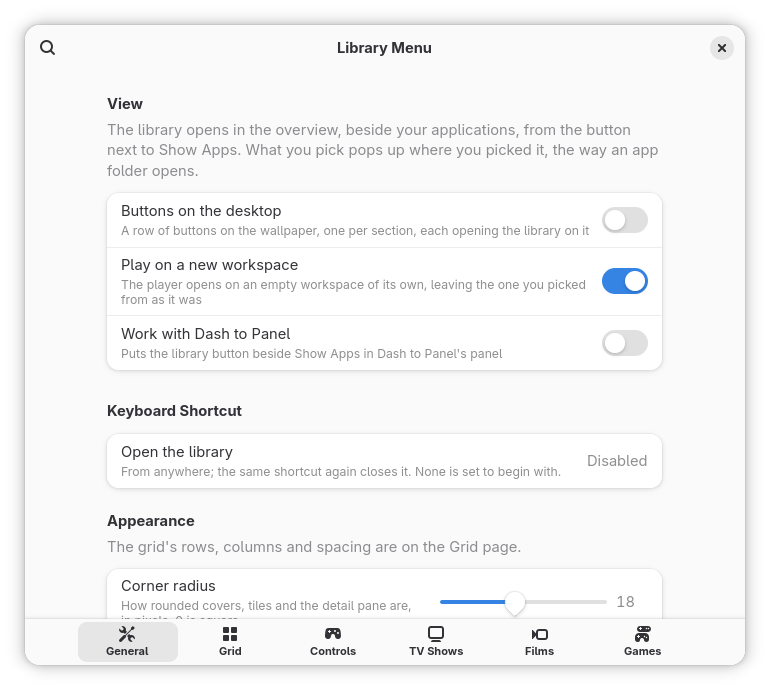
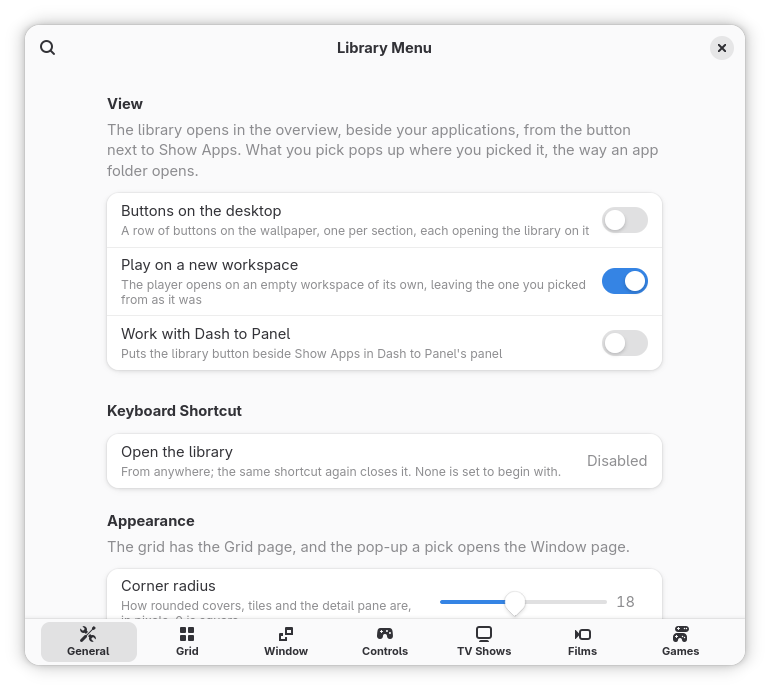
A Window page: the pop-up's width and height apart, and the episode row size (#125)
The one `detail-size` share becomes `detail-width` and `detail-height`
(60–120 %), and `detail-row-size` (28–56 px) sets the list rows' height, with
their type and icons scaled from the stylesheet's 36 px. The three sit on a
Window page beside Grid, and leave the General page's Appearance group.

Fixes #124

diff --git a/src/lib/widgets.js b/src/lib/widgets.js
@@ -4,6 +4,9 @@ import Pango from 'gi://Pango';
 
 import {radiusStyle} from './shape.js';
 
+// The stylesheet's .ml-row height, logical px: the row `detail-row-size` scales from.
+const ROW_SIZE = 36;
+
 // The radius must travel in the same inline style as the image to round it.
 export function artworkStyle(path, part = 'art') {
     return `background-image: url("file://${encodeURI(path)}"); background-size: cover; ${radiusStyle(part)}`;
@@ -151,14 +154,19 @@ export function createPill(text, styleClass, style = null) {
 }
 
 // `watched` null: nothing to track; true or false makes the disc a toggle.
-export function createRow({index, title, subtitle, badges = [], size, icon = 'media-playback-start-symbolic', onActivate, watched = null, onWatched}) {
+// `height` is logical px; the row's type and icons scale with it from the
+// stylesheet's 36 px, so a two-line row still fits.
+export function createRow({index, title, subtitle, badges = [], size, icon = 'media-playback-start-symbolic', height, onActivate, watched = null, onWatched}) {
+    const ratio = height / ROW_SIZE;
+    const iconSize = Math.round(16 * ratio);
     const row = new St.Button({
         style_class: 'button flat ml-row',
         can_focus: true,
         track_hover: true,
         x_expand: true,
-        style: radiusStyle(),
+        style: `${radiusStyle()} height: ${height}px; min-height: ${height}px; font-size: ${ratio.toFixed(2)}em;`,
     });
+    const discStyle = `width: ${height}px; height: ${height}px;`;
     const content = new St.BoxLayout({x_expand: true, y_align: Clutter.ActorAlign.CENTER});
 
     // A label sized in CSS draws its text at the top, so the disc is a bin.
@@ -172,10 +180,11 @@ export function createRow({index, title, subtitle, badges = [], size, icon = 'me
             style_class: 'ml-row-index',
             y_align: Clutter.ActorAlign.CENTER,
             child: number,
+            style: discStyle,
         }));
     } else {
         // Its own button, so ticking an episode off does not also play it.
-        const tick = new St.Icon({icon_name: 'object-select-symbolic', icon_size: 16});
+        const tick = new St.Icon({icon_name: 'object-select-symbolic', icon_size: iconSize});
         const face = new St.Widget({layout_manager: new Clutter.BinLayout()});
         face.add_child(number);
         face.add_child(tick);
@@ -187,6 +196,7 @@ export function createRow({index, title, subtitle, badges = [], size, icon = 'me
             track_hover: true,
             accessible_name: 'Watched',
             child: face,
+            style: discStyle,
         });
         const sync = () => {
             number.visible = !disc.checked;
@@ -228,7 +238,7 @@ export function createRow({index, title, subtitle, badges = [], size, icon = 'me
 
     content.add_child(new St.Icon({
         icon_name: icon,
-        icon_size: 16,
+        icon_size: iconSize,
         style_class: 'ml-row-icon',
         y_align: Clutter.ActorAlign.CENTER,
     }));

diff --git a/src/prefs.js b/src/prefs.js
@@ -244,6 +244,7 @@ export default class LibraryPreferences extends ExtensionPreferences {
         const state = {window, settings, counts: this._readCounts(), refreshCounts: [], padHandlers: []};
         window.add(this._generalPage(state));
         window.add(this._gridPage(state));
+        window.add(this._windowPage(state));
         window.add(this._controlsPage(state));
         for (const section of SECTIONS)
             window.add(this._sectionPage(state, section));
@@ -324,13 +325,11 @@ export default class LibraryPreferences extends ExtensionPreferences {
 
         const appearance = new Adw.PreferencesGroup({
             title: 'Appearance',
-            description: 'The grid\'s rows, columns and spacing are on the Grid page.',
+            description: 'The grid has the Grid page, and the pop-up a pick opens the Window page.',
         });
         page.add(appearance);
         appearance.add(row('Corner radius', 'How rounded covers, tiles and the detail pane are, in pixels. 0 is square.',
             slider(settings, 'corner-radius', 0, 40)));
-        appearance.add(row('Detail pop-up size', 'How much of the available room the pop-up fills, as a percentage',
-            slider(settings, 'detail-size', 80, 120)));
         const accent = new Adw.ActionRow({
             title: 'Accent colour',
             subtitle: 'Follows Settings → Appearance → Accent Color',
@@ -394,6 +393,26 @@ export default class LibraryPreferences extends ExtensionPreferences {
         spacing.add(row('Between covers, down', 'At least this', slider(settings, 'tile-spacing-vertical', 0, 48)));
         spacing.add(row('Padding at the sides', null, slider(settings, 'grid-padding-horizontal', 0, 120)));
         spacing.add(row('Padding above and below', null, slider(settings, 'grid-padding-vertical', 0, 120)));
+        return page;
+    }
+
+    _windowPage(state) {
+        const {settings} = state;
+        const page = new Adw.PreferencesPage({title: 'Window', icon_name: 'focus-windows-symbolic'});
+
+        const size = new Adw.PreferencesGroup({
+            title: 'Size',
+            description: 'The pop-up a pick opens, as a share of the room on screen. The artwork ' +
+                'and the list beside it follow.',
+        });
+        page.add(size);
+        size.add(row('Width', null, slider(settings, 'detail-width', 60, 120)));
+        size.add(row('Height', null, slider(settings, 'detail-height', 60, 120)));
+
+        const list = new Adw.PreferencesGroup({title: 'Episode list'});
+        page.add(list);
+        list.add(row('Row size', 'The height of each episode, film or disc row, in pixels. Its text and icons scale with it.',
+            slider(settings, 'detail-row-size', 28, 56)));
         return page;
     }
 

diff --git a/src/lib/detailDialog.js b/src/lib/detailDialog.js
@@ -51,7 +51,7 @@ function folderLook() {
 
 export const DetailDialog = GObject.registerClass(
 class LibraryDetailDialog extends St.Bin {
-    constructor({onOpen, tracker, size}) {
+    constructor({onOpen, tracker, width, height, rowSize}) {
         super({
             visible: false,
             x_expand: true,
@@ -62,7 +62,8 @@ class LibraryDetailDialog extends St.Bin {
 
         this._constraint = new Layout.MonitorConstraint({index: Main.layoutManager.primaryIndex});
         this.add_constraint(this._constraint);
-        this._size = size;
+        this._width = width;
+        this._height = height;
 
         this._addClickAway();
 
@@ -93,7 +94,7 @@ class LibraryDetailDialog extends St.Bin {
         });
         this._panel.add_child(this._clip);
 
-        this._detail = new DetailView({onOpen, tracker});
+        this._detail = new DetailView({onOpen, tracker, rowSize});
         this._detail.actor.set_position(0, 0);
         this._clip.add_child(this._detail.actor);
 
@@ -168,14 +169,14 @@ class LibraryDetailDialog extends St.Bin {
         const bottom = (monitor.y + monitor.height - area.y - area.height) / scale;
         this.child.set_style(`padding: ${top}px ${right}px ${bottom}px ${left}px;`);
 
-        // `maxHeight` is for content that does not fit in the `detail-size` share.
+        // `maxHeight` is for content that does not fit in the `detail-height` share.
         const room = {
             width: Math.min(MAX_WIDTH * scale, area.width - 2 * MARGIN * scale),
             height: Math.min(MAX_HEIGHT * scale, area.height - 2 * MARGIN * scale),
         };
         return {
-            width: Math.round(room.width * this._size),
-            height: Math.round(room.height * this._size),
+            width: Math.round(room.width * this._width),
+            height: Math.round(room.height * this._height),
             maxHeight: Math.round(room.height),
         };
     }
@@ -193,7 +194,7 @@ class LibraryDetailDialog extends St.Bin {
         const [, sideWidth] = this._detail.side.get_preferred_width(-1);
         const [, sideHeight] = this._detail.side.get_preferred_height(sideWidth);
 
-        // Never shorter than the column, which HERO_MIN can make outgrow `detail-size`.
+        // Never shorter than the column, which HERO_MIN can make outgrow `detail-height`.
         const paneWidth = budget.width - frame;
         const paneHeight = Math.min(Math.ceil(sideHeight) + pad, budget.maxHeight - frame);
         this._wideWidth = budget.width;

diff --git a/src/lib/app.js b/src/lib/app.js
@@ -127,8 +127,8 @@ export class LibraryApp {
 
         St.ThemeContext.get_for_stage(global.stage).connectObject('notify::scale-factor',
             () => this._scheduleRebuild(), this);
-        const rebuildKeys = [...GRID_KEYS, 'corner-radius', 'detail-size', 'desktop-dash',
-            ...SECTIONS.map(s => `${s.prefix}-enabled`)];
+        const rebuildKeys = [...GRID_KEYS, 'corner-radius', 'detail-width', 'detail-height',
+            'detail-row-size', 'desktop-dash', ...SECTIONS.map(s => `${s.prefix}-enabled`)];
         for (const key of rebuildKeys)
             this._settings.connectObject(`changed::${key}`, () => this._scheduleRebuild(), this);
 
@@ -329,7 +329,9 @@ export class LibraryApp {
         this._dialog = new DetailDialog({
             onOpen: (path, section) => this._open(path, section),
             tracker: this._tracker,
-            size: this._settings.get_int('detail-size') / 100,
+            width: this._settings.get_int('detail-width') / 100,
+            height: this._settings.get_int('detail-height') / 100,
+            rowSize: this._settings.get_int('detail-row-size'),
         });
         this._browser = new MediaMenu({
             sections,

diff --git a/src/lib/detailView.js b/src/lib/detailView.js
@@ -28,9 +28,10 @@ const FIRST_ROWS = 24;
 const ROWS_PER_BATCH = 16;
 
 export class DetailView {
-    constructor({onOpen, tracker}) {
+    constructor({onOpen, tracker, rowSize}) {
         this._onOpen = onOpen;
         this._tracker = tracker;
+        this._rowSize = rowSize;
         this._section = null;
         this._groups = [];
         this._groupIndex = 0;
@@ -379,6 +380,7 @@ export class DetailView {
                     badges: entry.badges,
                     size: entry.size,
                     icon: entry.icon,
+                    height: this._rowSize,
                     onActivate: () => this._open(entry.path),
                     watched: tracker && entry.path ? tracker.isWatched(entry.path) : null,
                     onWatched: watched => tracker.setWatched(entry.path, watched),

diff --git a/src/stylesheet.css b/src/stylesheet.css
@@ -247,7 +247,8 @@
      * height, so rows left to size themselves came out squashed to their
      * minimum in a long list and full-size in a short one. `height` alone
      * sets only the natural; the index disc's height, which a two-line
-     * row's text fits inside. */
+     * row's text fits inside. widgets.js createRow sets the three inline
+     * from `detail-row-size`, scaling the type with it; these are its default. */
     min-height: 36px;
     height: 36px;
     transition-duration: 120ms;

diff --git a/README.md b/README.md
@@ -162,7 +162,7 @@ button.
   </tr>
   <tr>
     <td valign="top"><b>General</b>: the buttons on the desktop (off to begin with),
-    playing on a new workspace, the button in Dash to Panel's panel (off to begin with), the keyboard shortcut (none to begin with), the corner radius, the pop-up's size, watched marks, and Rescan everything.</td>
+    playing on a new workspace, the button in Dash to Panel's panel (off to begin with), the keyboard shortcut (none to begin with), the corner radius, watched marks, and Rescan everything.</td>
     <td valign="top"><b>Grid</b>: rows and columns, titles under the covers, the
     space between covers and the grid's padding, with a preview that follows them.</td>
   </tr>
@@ -178,12 +178,13 @@ button.
   </tr>
   <tr>
     <td width="50%"><img src="docs/screenshots/prefs-controls.png" alt="The Controls page: the keys a remote sends for Up, Down, Left, Right, Select, Back, Home and a page each way"></td>
-    <td width="50%"></td>
+    <td width="50%"><img src="docs/screenshots/prefs-window.png" alt="The Window page: the pop-up's width and height sliders, and the episode row size"></td>
   </tr>
   <tr>
     <td valign="top"><b>Controls</b>: remote keys and controller buttons for browsing
     from the sofa.</td>
-    <td></td>
+    <td valign="top"><b>Window</b>: the pop-up's width and height, and the size of
+    the rows in its episode list.</td>
   </tr>
 </table>
 

diff --git a/CLAUDE.md b/CLAUDE.md
@@ -121,8 +121,10 @@ controllers are the keyboard too: `.claude/rules/keyboard.md`.
   the outer radius less `PANE_INSET`, so the curves are concentric.
 - **One set of style settings**: the grid's (`gridMath.js` `GRID_KEYS`: `columns`
   4–10, `rows` 1–3, the spacing and padding pairs, `show-titles`, `grid-align`),
-  `corner-radius` and `detail-size` (80–120 %, the pop-up pane's share of the work
-  area, applied in `detailDialog.js` `_budget()`). No view keeps a copy, and a change
+  `corner-radius`, the pop-up's (`detail-width` and `detail-height`, 60–120 %, its
+  share of the work area, applied in `detailDialog.js` `_budget()`, and
+  `detail-row-size`, the list's row height, which `widgets.js` `createRow` scales
+  its type and icons from). No view keeps a copy, and a change
   rebuilds what is built.
   `.claude/rules/layout.md` has how the grid and the pane size themselves.
 - **The neutrals are the dark palette's** (`#222226`, `#fafafb`) on purpose: the

diff --git a/.claude/rules/layout.md b/.claude/rules/layout.md
@@ -30,7 +30,7 @@ paths:
 - **The page dots keep their room on a one-page section**: the shell hides them, but the
   grid still budgets their height, so every section's rows land on the same lines.
 - **The hero has a floor** (`detailView.js` `HERO_MIN`, 132 logical px): on a small
-  work area the smallest `detail-size` leaves less room than the buttons beneath the
+  work area the smallest `detail-height` leaves less room than the buttons beneath the
   artwork take, so the panel shrinks instead and the artwork does not vanish.
 - **The overview is laid out in the work area, not on the monitor.** The box
   `ControlsManagerLayout.vfunc_allocate` divides is already inset by the top bar and

diff --git a/.claude/skills/drive-extension/SKILL.md b/.claude/skills/drive-extension/SKILL.md
@@ -64,7 +64,7 @@ only way in.
   ≈ x 809, Games ≈ x 887) over the grid, rows centred at y ≈ 320 and 570, first poster
   ≈ (407, 320).
 - **A pop-up detail**: Play ≈ (428, 735), never pressed; season tabs y ≈ 368 from
-  x ≈ 695; rows from y ≈ 430 in ≈ 54 px steps. The shade's edge is 48 px in from the
+  x ≈ 695; rows from y ≈ 430 in ≈ 54 px steps at the default row size. The shade's edge is 48 px in from the
   work area, so `click 20 450` closes it, as `key Escape` does.
 - **An empty section** shows a centred placeholder with Open Settings (Find Games for
   Games): normal until it has a folder and a scan.
